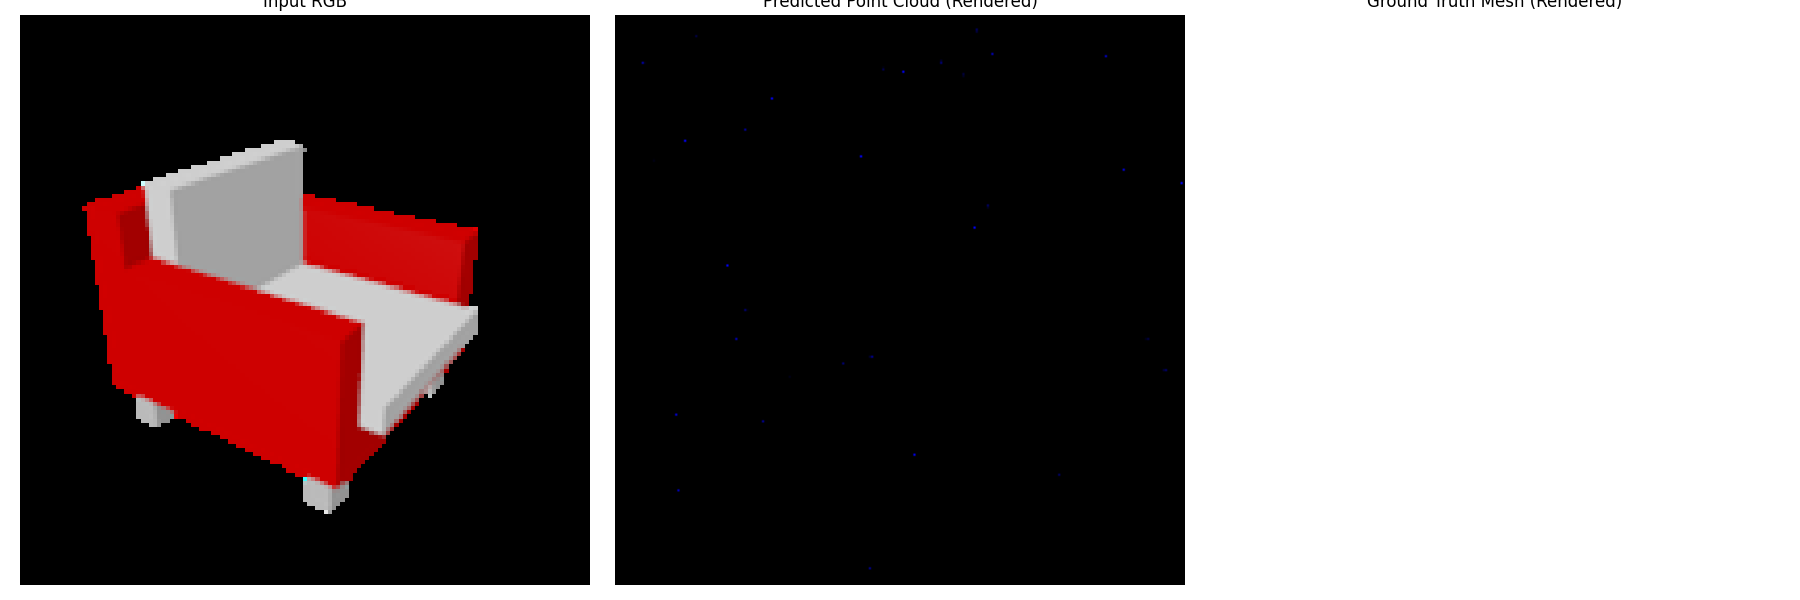
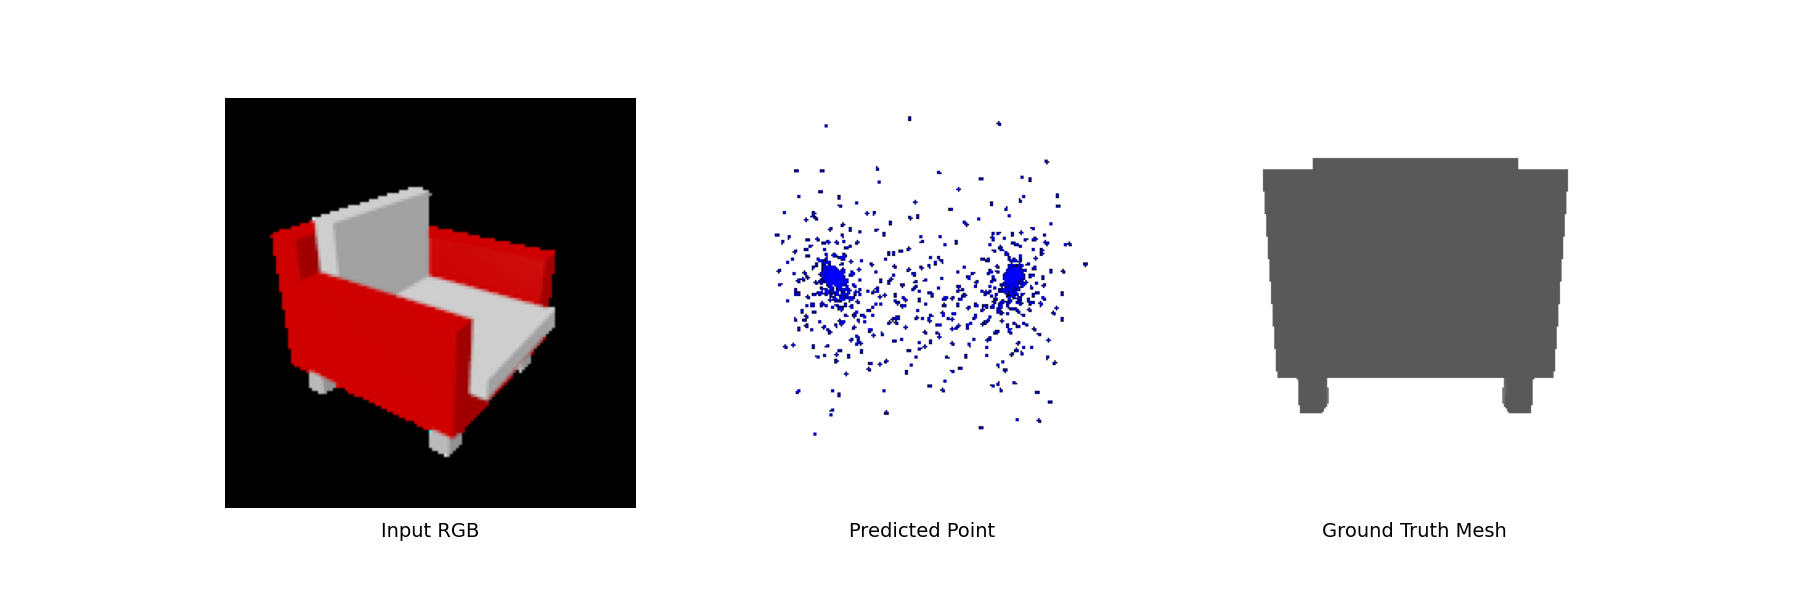
point & mesh vis done

diff --git a/eval_model.py b/eval_model.py
@@ -13,6 +13,7 @@ from pytorch3d.ops import knn_points
 from pytorch3d.ops import sample_points_from_meshes
 from pytorch3d.renderer import AlphaCompositor
 from pytorch3d.renderer import FoVPerspectiveCameras
+from pytorch3d.renderer import look_at_view_transform
 from pytorch3d.renderer import MeshRasterizer
 from pytorch3d.renderer import MeshRenderer
 from pytorch3d.renderer import PointLights
@@ -22,7 +23,6 @@ from pytorch3d.renderer import PointsRenderer
 from pytorch3d.renderer import RasterizationSettings
 from pytorch3d.renderer import SoftPhongShader
 from pytorch3d.renderer import TexturesVertex
-from pytorch3d.structures import Pointclouds
 from pytorch3d.transforms import axis_angle_to_matrix
 from pytorch3d.transforms import Rotate
 
@@ -149,6 +149,38 @@ def evaluate(predictions, mesh_gt, thresholds, args):
     return metrics
 
 
+def get_points_renderer(
+    image_size=512, device=None, radius=0.01, background_color=(1, 1, 1)
+):
+    """
+    Returns a Pytorch3D renderer for point clouds.
+
+    Args:
+        image_size (int): The rendered image size.
+        device (torch.device): The torch device to use (CPU or GPU). If not specified,
+            will automatically use GPU if available, otherwise CPU.
+        radius (float): The radius of the rendered point in NDC.
+        background_color (tuple): The background color of the rendered image.
+
+    Returns:
+        PointsRenderer.
+    """
+    if device is None:
+        if torch.cuda.is_available():
+            device = torch.device("cuda:0")
+        else:
+            device = torch.device("cpu")
+    raster_settings = PointsRasterizationSettings(
+        image_size=image_size,
+        radius=radius,
+    )
+    renderer = PointsRenderer(
+        rasterizer=PointsRasterizer(raster_settings=raster_settings),
+        compositor=AlphaCompositor(background_color=background_color),
+    )
+    return renderer
+
+
 def evaluate_model(args):
     r2n2_dataset = R2N2(
         "test",
@@ -218,90 +250,129 @@ def evaluate_model(args):
         )
 
         if (step % args.vis_freq) == 0:
+            # --- Common Rendering ---
+            device = args.device
+
+            fig = plt.figure(figsize=(18, 6))
+
+            # Subplot 1: Input RGB
+            ax1 = fig.add_subplot(1, 3, 1)
+            input_rgb = images_gt[0].detach().cpu().numpy()
+            ax1.imshow(input_rgb)
+            ax1.axis("off")
+            # Place caption below: y=-0.08 positions the text below the axes.
+            ax1.text(
+                0.5,
+                -0.08,
+                "Input RGB",
+                transform=ax1.transAxes,
+                horizontalalignment="center",
+                verticalalignment="bottom",
+                fontsize=14,
+            )
+
+            # Subplot 2: Ground Truth Mesh rendering
+            # Compute camera parameters (common to both mesh and predict rendering)
+            R, T = look_at_view_transform(dist=1, elev=10, azim=0, device=device)
+            cameras = FoVPerspectiveCameras(R=R, T=T, device=device)
+            # Mesh renderer for ground truth:
+            lights = PointLights(device=device, location=[[0.0, 0.0, -3.0]])
+            raster_settings_mesh = RasterizationSettings(
+                image_size=256, blur_radius=0.0, faces_per_pixel=1
+            )
+            mesh_renderer = MeshRenderer(
+                rasterizer=MeshRasterizer(
+                    cameras=cameras, raster_settings=raster_settings_mesh
+                ),
+                shader=SoftPhongShader(device=device, cameras=cameras, lights=lights),
+            )
+            # Prepare ground truth mesh (colorize if needed)
+            mesh_gt0 = mesh_gt[0].to(device)
+            if mesh_gt0.textures is None:
+                verts = mesh_gt0.verts_packed()
+                colors = torch.full(
+                    (1, verts.shape[0], 3), 0.7, device=device
+                )  # light gray
+                mesh_gt0 = pytorch3d.structures.Meshes(
+                    verts=mesh_gt0.verts_list(),
+                    faces=mesh_gt0.faces_list(),
+                    textures=TexturesVertex(verts_features=colors),
+                )
+            rend_gt = mesh_renderer(mesh_gt0)[0, ..., :3].detach().cpu().numpy()
+            ax2 = fig.add_subplot(1, 3, 3)
+            ax2.imshow(rend_gt)
+            ax2.axis("off")
+            ax2.text(
+                0.5,
+                -0.08,
+                "Ground Truth Mesh",
+                transform=ax2.transAxes,
+                horizontalalignment="center",
+                verticalalignment="bottom",
+                fontsize=14,
+            )
+
+            # Subplot 3: Predicted reconstruction
+            ax3 = fig.add_subplot(1, 3, 2)
+
+            # --- Modality-Specific Rendering ---
             if args.type == "point":
-                device = args.device  # e.g., 'cuda' or 'cpu'
-
-                # Instantiate a points renderer for the predicted point cloud.
-                cameras = FoVPerspectiveCameras(device=device)
-                raster_settings = PointsRasterizationSettings(
-                    image_size=256,
-                    radius=0.005,  # Adjust radius to control point size
-                    points_per_pixel=10,
+                points_renderer = get_points_renderer(
+                    image_size=256, background_color=(1, 1, 1), device=device
                 )
-                points_renderer = PointsRenderer(
-                    rasterizer=PointsRasterizer(
-                        cameras=cameras, raster_settings=raster_settings
-                    ),
-                    compositor=AlphaCompositor(),
-                )
-
-                # Prepare the predicted point cloud.
-                # predictions: (B, n_points, 3); get the first sample and move to device.
-                pred_points = predictions[0].detach().to(device)  # shape: (n_points, 3)
-                # Create a uniform blue color for all points.
+                # predictions is assumed to be (B, n_points, 3); get first sample.
+                pred_points = predictions[0].detach().to(device)
+                # Create a uniform blue color for the predicted point cloud.
                 pred_colors = torch.zeros_like(pred_points)
-                pred_colors[:, 2] = 1.0  # Blue channel set to 1
-                # Create a Pointclouds object.
+                pred_colors[:, 2] = 1.0
+                from pytorch3d.structures import Pointclouds
+
                 pred_pc = Pointclouds(points=[pred_points], features=[pred_colors])
-                # Render the predicted point cloud.
                 rend_points = (
-                    points_renderer(pred_pc)[0, ..., :3].detach().cpu().numpy()
+                    points_renderer(pred_pc, cameras=cameras)[0, ..., :3]
+                    .detach()
+                    .cpu()
+                    .numpy()
                 )
 
-                # Instantiate a mesh renderer for the ground truth mesh.
-                lights = PointLights(device=device, location=[[0.0, 0.0, -3.0]])
-                raster_settings_mesh = RasterizationSettings(
-                    image_size=256,
-                    blur_radius=0.0,
-                    faces_per_pixel=1,
-                )
-                mesh_renderer = MeshRenderer(
-                    rasterizer=MeshRasterizer(
-                        cameras=cameras, raster_settings=raster_settings_mesh
-                    ),
-                    shader=SoftPhongShader(
-                        device=device, cameras=cameras, lights=lights
-                    ),
-                )
-
-                # Prepare the ground truth mesh.
-                mesh_gt0 = mesh_gt[0].to(device)
-                # If the ground truth mesh has no textures, colorize it uniformly.
-                if mesh_gt0.textures is None:
-                    verts = mesh_gt0.verts_packed()  # (N, 3)
-                    colors = torch.full(
-                        (1, verts.shape[0], 3), 0.7, device=device
-                    )  # light gray
-                    mesh_gt0 = pytorch3d.structures.Meshes(
-                        verts=mesh_gt0.verts_list(),
-                        faces=mesh_gt0.faces_list(),
-                        textures=TexturesVertex(verts_features=colors),
-                    )
-                rend_gt = mesh_renderer(mesh_gt0)[0, ..., :3].detach().cpu().numpy()
-
-                # Get the input RGB image.
-                input_rgb = images_gt[0].detach().cpu().numpy()
-
-                # Create a figure with three panels: input RGB, rendered predicted point cloud, and rendered ground truth mesh.
-                fig = plt.figure(figsize=(18, 6))
-                ax1 = fig.add_subplot(1, 3, 1)
-                ax1.imshow(input_rgb)
-                ax1.set_title("Input RGB")
-                ax1.axis("off")
-
-                ax2 = fig.add_subplot(1, 3, 2)
-                ax2.imshow(rend_points)
-                ax2.set_title("Predicted Point Cloud (Rendered)")
-                ax2.axis("off")
-
-                ax3 = fig.add_subplot(1, 3, 3)
-                ax3.imshow(rend_gt)
-                ax3.set_title("Ground Truth Mesh (Rendered)")
+                ax3.imshow(rend_points)
                 ax3.axis("off")
+                ax3.text(
+                    0.5,
+                    -0.08,
+                    "Predicted Point",
+                    transform=ax3.transAxes,
+                    horizontalalignment="center",
+                    verticalalignment="bottom",
+                    fontsize=14,
+                )
+            elif args.type == "mesh":
+                # predictions is assumed to be a Meshes object.
+                pred_mesh = predictions.to(device)
+                verts = pred_mesh.verts_packed()
+                colors = torch.full(
+                    (1, verts.shape[0], 3), 0.5, device=device
+                )  # uniform mid-gray
+                pred_mesh = pytorch3d.structures.Meshes(
+                    verts=pred_mesh.verts_list(),
+                    faces=pred_mesh.faces_list(),
+                    textures=TexturesVertex(verts_features=colors),
+                )
+                rend_pred = mesh_renderer(pred_mesh)[0, ..., :3].detach().cpu().numpy()
+                ax3.imshow(rend_pred)
+                ax3.axis("off")
+                ax3.text(
+                    0.5,
+                    -0.08,
+                    "Predicted Mesh",
+                    transform=ax3.transAxes,
+                    horizontalalignment="center",
+                    verticalalignment="bottom",
+                    fontsize=14,
+                )
 
-                plt.tight_layout()
-                plt.savefig(f"vis/{step}_{args.type}_renderer.png")
-                plt.close(fig)
+            plt.savefig(f"vis/{step}_{args.type}_renderer.png")
+            plt.close(fig)
 
         total_time = time.time() - start_time
         iter_time = time.time() - iter_start_time
